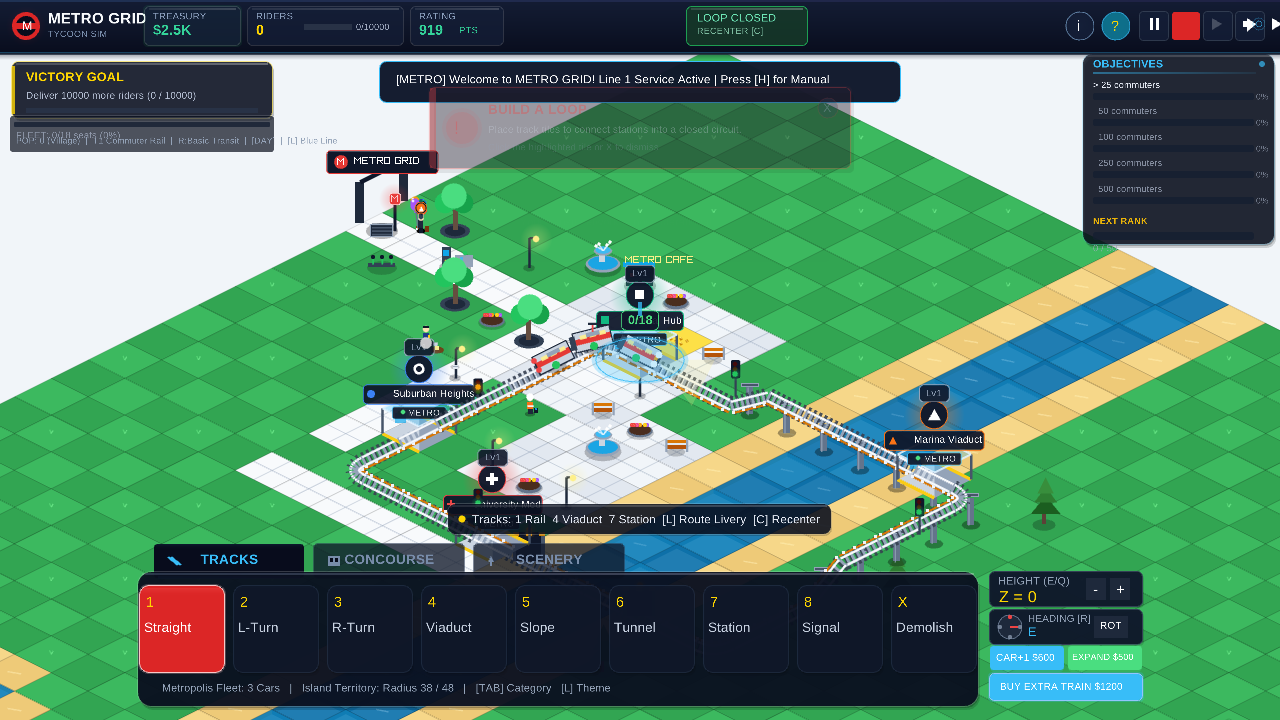
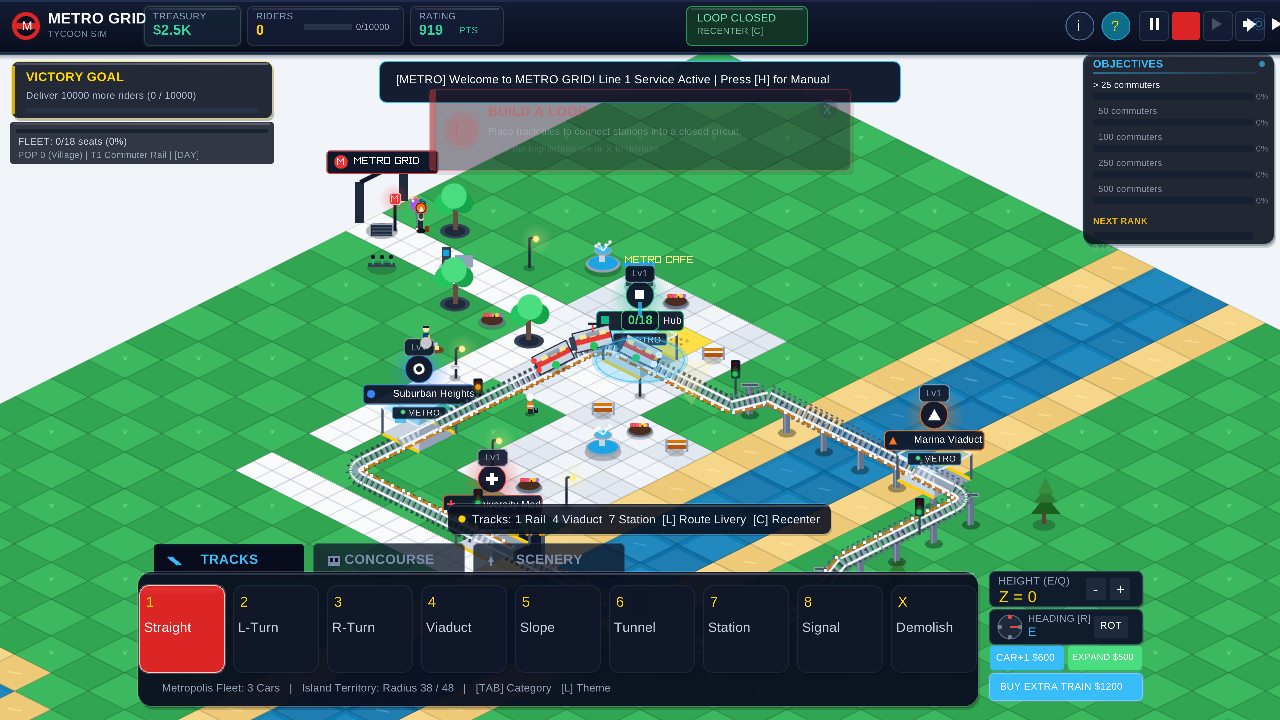
Loop 75: Concrete viaduct parapet guard rails and clean left dashboard stack

diff --git a/raylib/src/game.cpp b/raylib/src/game.cpp
@@ -2703,13 +2703,13 @@ void Game::Draw() {
         }
         float utilPct = totalCap > 0 ? (float)totalOn / (float)totalCap : 0.0f;
         Color utilCol = (utilPct >= 0.8f) ? Color{239, 68, 68, 255} : (utilPct >= 0.5f) ? Color{234, 179, 8, 255} : Color{56, 189, 248, 255};
-        int fBarX = 12, fBarY = 118, fBarW = 260;
+        int fBarX = 12, fBarY = 124, fBarW = 260;
         // Glass fleet bar background
-        ui.DrawGlassPanel(fBarX - 2, fBarY - 2, fBarW + 4, 36, Color{8, 14, 28, 180}, 0.15f);
-        DrawRectangleRounded(Rectangle{(float)(fBarX + 2), (float)(fBarY + 4), (float)(fBarW - 4), 5.0f}, 0.4f, 3, Color{20, 30, 48, 200});
-        DrawRectangleGradientH(fBarX + 2, fBarY + 4, (int)((fBarW - 4) * utilPct), 5,
+        ui.DrawGlassPanel(fBarX - 2, fBarY - 2, fBarW + 4, 42, Color{8, 14, 28, 210}, 0.15f);
+        DrawRectangleRounded(Rectangle{(float)(fBarX + 4), (float)(fBarY + 5), (float)(fBarW - 8), 4.0f}, 0.4f, 3, Color{20, 30, 48, 200});
+        DrawRectangleGradientH(fBarX + 4, fBarY + 5, (int)((fBarW - 8) * utilPct), 4,
                                Color{(unsigned char)(utilCol.r * 7 / 10), (unsigned char)(utilCol.g * 7 / 10), (unsigned char)(utilCol.b * 7 / 10), utilCol.a}, utilCol);
-        DrawText(TextFormat("FLEET: %d/%d seats (%.0f%%)", totalOn, totalCap, utilPct * 100.0f), fBarX + 4, fBarY + 12, 9, Color{160, 170, 190, 200});
+        DrawText(TextFormat("FLEET: %d/%d seats (%.0f%%)", totalOn, totalCap, utilPct * 100.0f), fBarX + 6, fBarY + 12, 11, Color{203, 213, 225, 255});
 
         // 12b. Population, Train Tier, Research, Districts display
         static const char* popTierNames[] = {"Village", "Town", "City", "Metropolis", "MEGACITY"};
@@ -2722,12 +2722,10 @@ void Game::Draw() {
         const char* timeIcon = (timeOfDay < 0.2f || timeOfDay >= 0.8f) ? "[NIGHT]" :
                                (timeOfDay < 0.3f) ? "[DAWN]" :
                                (timeOfDay < 0.7f) ? "[DAY]" : "[DUSK]";
-        DrawText(TextFormat("POP: %d (%s)  |  T%d %s  |  R:%s  |  %s  |  [L] %s",
+        DrawText(TextFormat("POP %d (%s) | T%d %s | %s",
                             totalWorldPopulation, popTierNames[populationTier],
                             trainTier + 1, GetTrainTier(trainTier).name,
-                            GetResearchName((ResearchTier)researchTier),
-                            timeIcon,
-                            LINE_COLORS[lineColorIdx].name), fBarX + 4, fBarY + 18, 8, popCol);
+                            timeIcon), fBarX + 6, fBarY + 26, 10, popCol);
     }
 
     // 12c. Natural event banner (top-right corner)

diff --git a/raylib/src/ui.cpp b/raylib/src/ui.cpp
@@ -790,7 +790,7 @@ void UserInterface::DrawCommuterInspector(const Commuter* commuter) {
     int cardW = 300;
     int cardH = 145;
     int cardX = 14;
-    int cardY = 120;
+    int cardY = 172;
 
     // Card background
     DrawRectangleRounded(Rectangle{(float)cardX, (float)cardY, (float)cardW, (float)cardH}, 0.15f, 6, Color{15, 23, 42, 250});
@@ -865,7 +865,7 @@ void UserInterface::DrawStationInspector(const TrackNode* station, int waitingCo
     int cardW = 300;
     int cardH = 172;
     int cardX = 14;
-    int cardY = 120;
+    int cardY = 172;
 
     // Card background
     DrawRectangleRounded(Rectangle{(float)cardX, (float)cardY, (float)cardW, (float)cardH}, 0.15f, 6, Color{15, 23, 42, 250});
@@ -1924,13 +1924,13 @@ bool UserInterface::CheckStaffWindowClick(Vector2 mousePos, bool& outHireHandyma
 bool UserInterface::CheckPeepInspectorCloseClick(Vector2 mousePos) const {
     int cardW = 300;
     int cardX = 14;
-    int cardY = 120;
+    int cardY = 172;
 
     return CheckCollisionPointRec(mousePos, Rectangle{(float)cardX + cardW - 28, (float)cardY + 8, 24.0f, 24.0f});
 }
 
 bool UserInterface::IsMouseInPeepInspector(Vector2 mousePos) const {
-    return CheckCollisionPointRec(mousePos, Rectangle{14.0f, 120.0f, 300.0f, 145.0f});
+    return CheckCollisionPointRec(mousePos, Rectangle{14.0f, 172.0f, 300.0f, 145.0f});
 }
 
 bool UserInterface::CheckStationInspectorClick(Vector2 mousePos, const TrackNode* station, bool& outUpgrade, bool& outClose) const {
@@ -1939,7 +1939,7 @@ bool UserInterface::CheckStationInspectorClick(Vector2 mousePos, const TrackNode
     int cardW = 300;
     int cardH = 172;
     int cardX = 14;
-    int cardY = 120;
+    int cardY = 172;
 
     outUpgrade = false;
     outClose = false;
@@ -1970,7 +1970,7 @@ bool UserInterface::CheckStationInspectorClick(Vector2 mousePos, const TrackNode
 }
 
 bool UserInterface::IsMouseInStationInspector(Vector2 mousePos) const {
-    return CheckCollisionPointRec(mousePos, Rectangle{14.0f, 120.0f, 300.0f, 172.0f});
+    return CheckCollisionPointRec(mousePos, Rectangle{14.0f, 172.0f, 300.0f, 172.0f});
 }
 
 bool UserInterface::CheckHelpOverlayClick(Vector2 mousePos) const {

diff --git a/raylib/src/track.cpp b/raylib/src/track.cpp
@@ -854,6 +854,31 @@ void TrackSystem::DrawSinglePiece(const TrackNode& node, Vector2 camOffset, floa
         DrawPlatformCanopy(node, camOffset, zoom);
     }
 
+    // 2b. Draw Concrete Parapet Guard Wall on Elevated Viaducts
+    if (node.gz > 0 || node.type == TRACK_VIADUCT_ELEVATED || node.type == TRACK_VIADUCT_SLOPE) {
+        float parapetDist = 7.8f * zoom;
+        Color parapetC = Color{100, 116, 139, 230};
+        Color handrailC = Color{71, 85, 105, 255};
+        for (size_t i = 0; i < node.splinePoints.size() - 1; i += 2) {
+            Vector3 pt1 = node.splinePoints[i];
+            Vector3 pt2 = node.splinePoints[i + 1];
+            Vector2 s1 = Iso::GridToScreen(pt1.x, pt1.y, pt1.z, camOffset, zoom);
+            Vector2 s2 = Iso::GridToScreen(pt2.x, pt2.y, pt2.z, camOffset, zoom);
+            Vector2 tangent = Vector2Normalize({s2.x - s1.x, s2.y - s1.y});
+            Vector2 normal = {-tangent.y, tangent.x};
+
+            Vector2 p1L = {s1.x - normal.x * parapetDist, s1.y - normal.y * parapetDist};
+            Vector2 p2L = {s2.x - normal.x * parapetDist, s2.y - normal.y * parapetDist};
+            Vector2 p1R = {s1.x + normal.x * parapetDist, s1.y + normal.y * parapetDist};
+            Vector2 p2R = {s2.x + normal.x * parapetDist, s2.y + normal.y * parapetDist};
+
+            DrawLineEx(p1L, p2L, 2.2f * zoom, parapetC);
+            DrawLineEx(p1R, p2R, 2.2f * zoom, parapetC);
+            DrawLineEx({p1L.x, p1L.y - 2.5f * zoom}, {p2L.x, p2L.y - 2.5f * zoom}, 1.0f * zoom, handrailC);
+            DrawLineEx({p1R.x, p1R.y - 2.5f * zoom}, {p2R.x, p2R.y - 2.5f * zoom}, 1.0f * zoom, handrailC);
+        }
+    }
+
     // 3. Draw Cross Sleepers (Ties)
     float railGauge = 5.2f * zoom;
     Color tieC = Color{148, 163, 184, 255}; // Modern concrete ties
